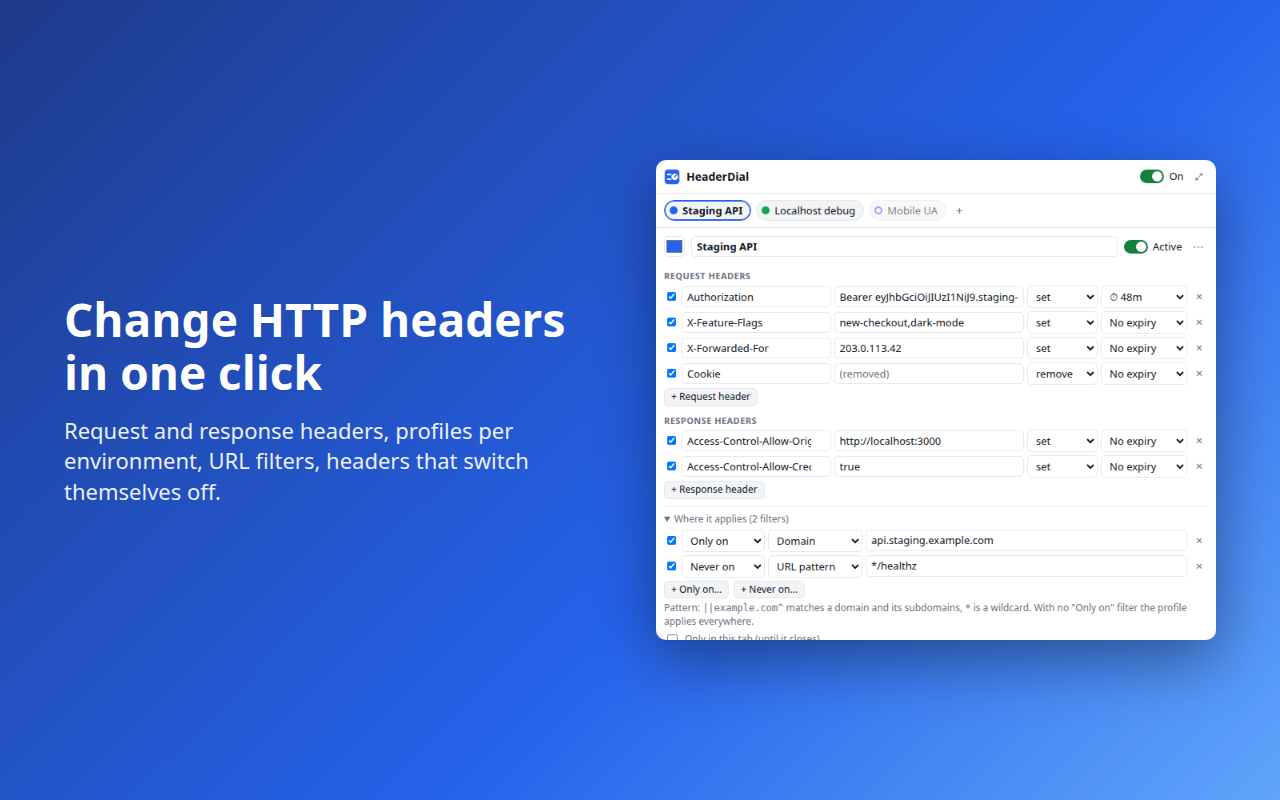
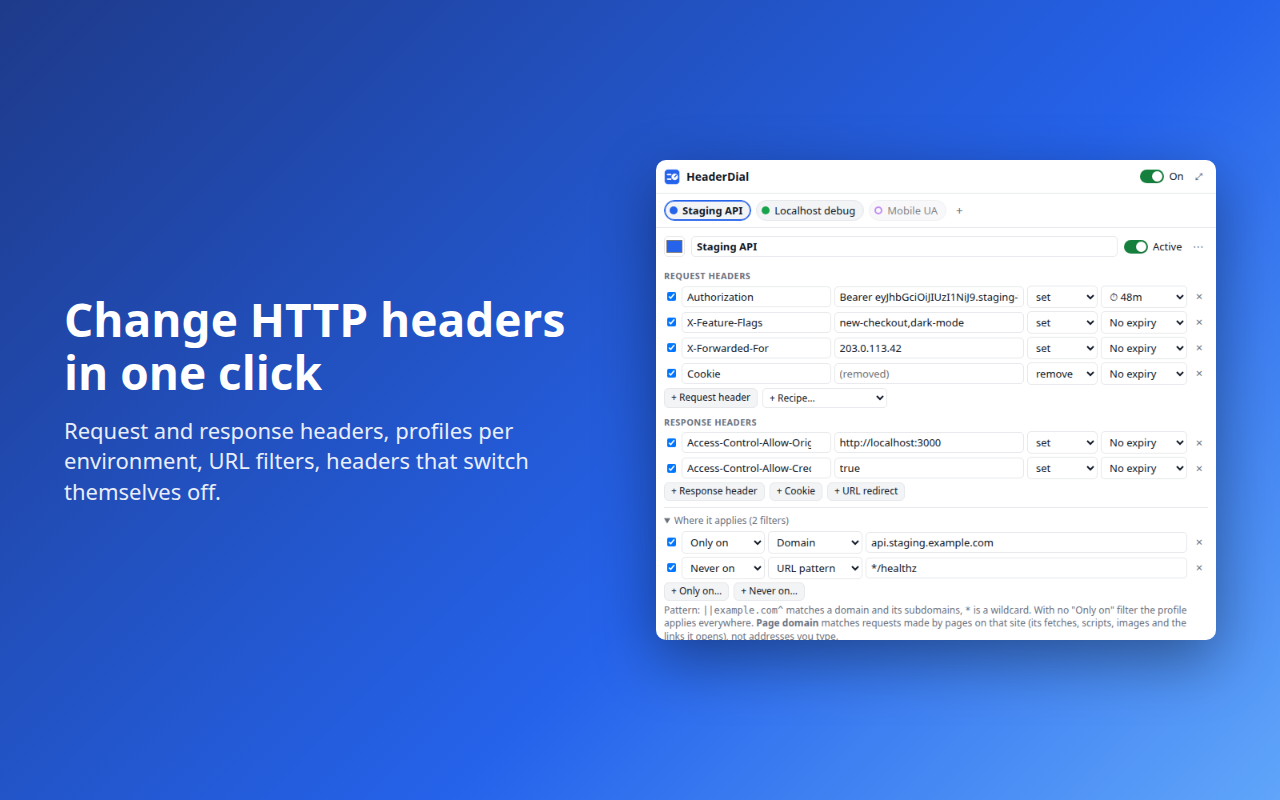
0.9.1: first-run popup fits the 600px popup height (add buttons share a row, chips on one line); third store screenshot (Start card); publish-amo.py --unlisted (Mozilla-signed self-hosted XPI) and clear AMO throttle handling

Changed region(s): [[0.5, 0.4688, 0.9375, 0.8125], [0.6875, 0.6562, 0.7812, 0.7188], [0.875, 0.5312, 0.9062, 0.5938]]

diff --git a/extension/popup.js b/extension/popup.js
@@ -243,6 +243,8 @@ function renderEditor() {
     tabOnly,
     el('p', { class: 'hint' }, 'Request types (none ticked = all, including page loads):'), types,
     el('p', { class: 'hint' }, 'Methods (none ticked = all). CORS preflights are OPTIONS requests:'), methods);
+  const addCookieBtn = el('button', { type: 'button', id: 'add-cookie', onclick: () => addCookie(p) }, '+ Cookie');
+  const addRedirBtn = el('button', { type: 'button', id: 'add-redir', onclick: () => addRedirect(p) }, '+ URL redirect');
   main.replaceChildren(
     el('div', { class: 'pbar' },
       el('input', { type: 'color', value: p.color, title: 'Profile colour', 'aria-label': 'Profile colour',
@@ -262,28 +264,31 @@ function renderEditor() {
       el('option', { value: '' }, '+ Recipe…'), ...HD.RECIPES.map((r) => el('option', { value: r.key }, r.label)))),
     el('h3', {}, 'Response headers'),
     el('div', { class: 'rows', id: 'res-rows' }, res.length ? res.map((h) => headerRow(p, h)) : el('div', { class: 'empty' }, 'None.')),
-    el('div', { class: 'add' }, el('button', { type: 'button', id: 'add-res', onclick: () => addHeader(p, 'response') }, '+ Response header')),
+    // Cookie and redirect buttons sit next to "+ Response header" until the profile has such rows,
+    // then below their own section; keeps a fresh popup under the browsers' 600px popup height.
+    el('div', { class: 'add' }, el('button', { type: 'button', id: 'add-res', onclick: () => addHeader(p, 'response') }, '+ Response header'),
+      ...(p.cookies.length ? [] : [addCookieBtn]), ...(p.redirects.length ? [] : [addRedirBtn])),
     ...(p.cookies.length ? [
       el('h3', {}, 'Cookies'),
       el('div', { class: 'rows', id: 'cookie-rows' }, p.cookies.map((c) => cookieRow(p, c))),
       el('p', { class: 'hint' }, 'Send adds name=value after the cookies the browser sends. If it already has one with that name, the server gets both, ',
         'the browser\'s first. Store saves the cookie in the browser, as Set-Cookie would, replacing one with the same name and path.'),
+      el('div', { class: 'add' }, addCookieBtn),
     ] : []),
-    el('div', { class: 'add' }, el('button', { type: 'button', id: 'add-cookie', onclick: () => addCookie(p) }, '+ Cookie')),
     ...(p.redirects.length ? [
       el('h3', {}, 'URL redirects'),
       el('div', { class: 'rows', id: 'redir-rows' }, p.redirects.map((r) => redirectRow(p, r))),
       el('p', { class: 'hint' }, 'Requests whose URL contains the text on the left go to the URL with that text replaced. ',
         '"Never on" filters, the tab, request types and methods below apply to redirects too.'),
+      el('div', { class: 'add' }, addRedirBtn),
     ] : []),
-    el('div', { class: 'add' }, el('button', { type: 'button', id: 'add-redir', onclick: () => addRedirect(p) }, '+ URL redirect')),
     det);
 }
 
 // First run: one untouched profile. Offer the three ways people start: paste a request
 // from DevTools, bring profiles over from ModHeader, or a one-click recipe.
-const START_RECIPES = [['bearer', 'Bearer token'], ['cors', 'CORS for this page'], ['mobile', 'Mobile User-Agent'],
-  ['nocache', 'No cache'], ['iframe', 'Allow in an iframe'], ['xff', 'X-Forwarded-For']];
+const START_RECIPES = [['bearer', 'Bearer token'], ['cors', 'Allow CORS'], ['mobile', 'Mobile UA'],
+  ['nocache', 'No cache'], ['iframe', 'Allow framing'], ['xff', 'X-Forwarded-For']];
 function isFresh(p) {
   return !startHidden && state.profiles.length === 1 && !p.headers.some((h) => h.name.trim()) &&
     !p.cookies.length && !p.redirects.length && !p.filters.length;
@@ -305,9 +310,8 @@ function startCard(p) {
       el('button', { type: 'button', id: 'start-modheader', onclick: () => openImport(
         'From ModHeader: paste its exported JSON, or if ModHeader is disabled, choose the .ldb and .log files from its data folder.') },
         el('b', {}, 'Coming from ModHeader?'), el('span', {}, 'Import its export, or recover profiles from a disabled ModHeader'))),
-    el('div', { class: 'start-recipes' }, el('span', { class: 'muted' }, 'Or in one click:'),
-      ...START_RECIPES.map(([k, label]) => el('button', { type: 'button', dataset: { recipe: k }, onclick: () => addRecipe(p, k) }, label))),
-    el('p', { class: 'hint' }, 'Or type a header name below.'));
+    el('div', { class: 'start-recipes' }, el('span', { class: 'muted' }, 'One click:'),
+      ...START_RECIPES.map(([k, label]) => el('button', { type: 'button', dataset: { recipe: k }, onclick: () => addRecipe(p, k) }, label))));
 }
 
 function addHeader(p, target) {

diff --git a/scripts/screenshots.js b/scripts/screenshots.js
@@ -70,6 +70,20 @@ const SAMPLE = {
   const importPng = fs.readFileSync(path.join(out, 'popup-import.png')).toString('base64');
   await stage.setContent(frame('Open source. No tracking.', 'No account, no analytics, no network requests. The code in the store is the code on GitHub. Imports your old ModHeader profiles.').replace(popupPng, importPng));
   await stage.screenshot({ path: path.join(out, 'screenshot-2-private.png') });
+  // Third shot: what a new user sees first (the Start card on a fresh install, no site access yet).
+  const fresh = await ctx.newPage();
+  await fresh.goto(`chrome-extension://${id}/popup.html`);
+  await fresh.evaluate(async () => { await chrome.storage.local.clear(); });
+  await fresh.setViewportSize({ width: 700, height: 600 });
+  await fresh.reload();
+  await fresh.waitForSelector('#start');
+  await fresh.waitForTimeout(300);
+  const fh = await fresh.evaluate(() => document.body.scrollHeight);
+  await fresh.setViewportSize({ width: 700, height: Math.min(fh, 600) });
+  await fresh.screenshot({ path: path.join(out, 'popup-start.png') });
+  const startPng = fs.readFileSync(path.join(out, 'popup-start.png')).toString('base64');
+  await stage.setContent(frame('Set up in a minute', 'Paste a request copied from DevTools, bring your ModHeader profiles (even from a disabled ModHeader), or add a common header in one click.').replace(popupPng, startPng));
+  await stage.screenshot({ path: path.join(out, 'screenshot-3-start.png') });
   await ctx.close();
   console.log('screenshots in', out);
 })().catch((e) => { console.error(e); process.exit(1); });

diff --git a/extension/popup.css b/extension/popup.css
@@ -101,6 +101,6 @@ dialog::backdrop { background: #0005; }
 .start-ways { display: grid; grid-template-columns: 1fr 1fr; gap: 8px; margin: 6px 0; }
 .start-ways button { text-align: left; background: var(--bg); padding: 8px 10px; display: flex; flex-direction: column; gap: 2px; }
 .start-ways button span { color: var(--muted); font-size: 12px; }
-.start-recipes { display: flex; flex-wrap: wrap; gap: 6px; align-items: center; }
-.start-recipes button { padding: 2px 8px; font-size: 12px; border-radius: 999px; background: var(--bg); }
+.start-recipes { display: flex; flex-wrap: wrap; gap: 5px; align-items: center; }
+.start-recipes button { padding: 2px 7px; font-size: 12px; border-radius: 999px; background: var(--bg); }
 .start .hint { margin: 6px 0 0; }

diff --git a/scripts/publish-amo.py b/scripts/publish-amo.py
@@ -4,10 +4,12 @@
   python3 scripts/publish-amo.py            # first run creates the listing, later runs add a version
   python3 scripts/publish-amo.py --status   # print the listing's review state
   python3 scripts/publish-amo.py --listing  # push store/amo-listing.json text and the screenshots
+  python3 scripts/publish-amo.py --unlisted # sign the current version on the unlisted (self-hosted) channel and
+                                            # save the Mozilla-signed file as site/download/headerdial-firefox.xpi
 
 Credentials: AMO_JWT_ISSUER / AMO_JWT_SECRET from the studio .env; nothing secret is printed.
 """
-import base64, hashlib, hmac, json, sys, time, urllib.error, urllib.request, uuid
+import base64, hashlib, hmac, json, re, sys, time, urllib.error, urllib.request, uuid
 from pathlib import Path
 
 ROOT = Path(__file__).resolve().parent.parent
@@ -50,7 +52,7 @@ def listing():
     print("listing", st, res if st != 200 else "updated")
     st, cur = call("GET", f"/addons/addon/{ADDON_ID}/")
     have = len(cur.get("previews") or [])
-    shots = ["screenshot-1-editor.png", "screenshot-2-private.png"]
+    shots = ["screenshot-1-editor.png", "screenshot-2-private.png", "screenshot-3-start.png"]
     for i, name in enumerate(shots[have:], start=have):
         body, ctype = multipart({"position": str(i)}, "image", name, (ROOT / "store" / name).read_bytes(), "image/png")
         st, res = call("POST", f"/addons/addon/{ADDON_ID}/previews/", body, ctype)
@@ -76,9 +78,14 @@ def main():
     if "--listing" in sys.argv:
         listing()
         return
+    if "--fetch" in sys.argv:
+        fetch_signed(int(sys.argv[sys.argv.index("--fetch") + 1]),
+                     json.loads((ROOT / "extension" / "manifest.json").read_text())["version"])
+        return
     version = json.loads((ROOT / "extension" / "manifest.json").read_text())["version"]
     zpath = ROOT / "dist" / f"headerdial-firefox-{version}.zip"
-    body, ctype = multipart({"channel": "listed"}, "upload", zpath.name, zpath.read_bytes())
+    channel = "unlisted" if "--unlisted" in sys.argv else "listed"
+    body, ctype = multipart({"channel": channel}, "upload", zpath.name, zpath.read_bytes())
     st, up = call("POST", "/addons/upload/", body, ctype)
     print("upload", st, up.get("uuid"), up.get("processed"))
     if st >= 300:
@@ -104,8 +111,39 @@ def main():
             st, res = call("POST", "/addons/addon/", json.dumps(payload).encode())
         if st != 429:
             break
-        time.sleep(30)
+        # AMO limits new versions per add-on per day ("Expected available in 71495 seconds"):
+        # wait out short throttles, stop on long ones (the validated upload is lost; rerun later).
+        wait = int((re.findall(r"in (\d+) seconds", str(res.get("detail"))) or ["30"])[0])
+        print("throttled:", res.get("detail"))
+        if wait > 300:
+            ready = time.strftime("%Y-%m-%d %H:%M UTC", time.gmtime(time.time() + wait))
+            sys.exit(f"AMO throttle: no new version before about {ready}; rerun this command then.")
+        time.sleep(wait + 2)
     print("submit", st, json.dumps(res, indent=2)[:2500])
+    if channel == "unlisted" and st < 300:
+        fetch_signed(res["id"], version)
+
+
+def fetch_signed(vid, version):
+    """Unlisted versions get automated review only; wait for the signed file and save it for the site."""
+    for _ in range(120):
+        st, v = call("GET", f"/addons/addon/{ADDON_ID}/versions/{vid}/")
+        f = (v.get("file") or {}) if st == 200 else {}
+        print("file status", st, f.get("status"))
+        if f.get("status") == "public" and f.get("url"):
+            req = urllib.request.Request(f["url"], headers={"Authorization": auth()})
+            data = urllib.request.urlopen(req).read()
+            out = ROOT / "site" / "download" / "headerdial-firefox.xpi"
+            out.parent.mkdir(parents=True, exist_ok=True)
+            out.write_bytes(data)
+            (out.parent / "headerdial-firefox.json").write_text(json.dumps(
+                {"version": version, "sha256": hashlib.sha256(data).hexdigest(), "amo_version_id": vid}, indent=2) + "\n")
+            print("saved", out.relative_to(ROOT), len(data), "bytes, sha256", hashlib.sha256(data).hexdigest())
+            return
+        if f.get("status") in ("disabled",):
+            sys.exit("signing refused: " + json.dumps(v)[:1500])
+        time.sleep(10)
+    sys.exit("not signed after 20 minutes; rerun later with --fetch " + str(vid))
 
 
 main()

diff --git a/store/chrome-privacy.md b/store/chrome-privacy.md
@@ -1,7 +1,7 @@
 # Chrome Web Store: first publish of HeaderDial (operator steps)
 
 The package is already uploaded through the API: item id **`hfacpfgfdcpacffioinklbocgjiglhig`**
-(version 0.9.0, uploaded on 2026-11-20; 0.2.0 to 0.8.0 were uploaded first). Open
+(version 0.9.1, uploaded on 2026-11-20; 0.2.0 to 0.9.0 were uploaded first). Open
 https://chrome.google.com/webstore/devconsole, click the item, and fill the fields below. Every
 value is copy-paste ready. When done, tell a builder (or run
 `python3 scripts/publish-cws.py --publish` in `ventures/request-headers`) to submit it for review.
@@ -20,7 +20,7 @@ studio extension).
 - Category: **Developer Tools**
 - Language: **English (United States)**
 - Store icon (128×128): `extension/icons/128.png`
-- Screenshots (1280×800): `store/screenshot-1-editor.png`, `store/screenshot-2-private.png`
+- Screenshots (1280×800): `store/screenshot-1-editor.png`, `store/screenshot-2-private.png`, `store/screenshot-3-start.png`
 - Small promo tile (440×280): `store/promo-small-440x280.png`
 - Marquee promo tile (1400×560, optional): `store/promo-marquee-1400x560.png`
 - Official URL: none. Homepage URL: `https://janwan2003.github.io/request-headers/`

diff --git a/store/LISTING.md b/store/LISTING.md
@@ -65,7 +65,7 @@ Collects no user data. Does not sell or transfer data. Not used for creditworthi
 
 ## Images
 - Icon 128×128: extension/icons/128.png
-- Screenshots 1280×800: store/screenshot-1-editor.png, store/screenshot-2-private.png
+- Screenshots 1280×800: store/screenshot-1-editor.png, store/screenshot-2-private.png, store/screenshot-3-start.png
   (regenerate: `node scripts/build.js && node scripts/screenshots.js store`)
 
 ## Firefox Add-ons (AMO)
